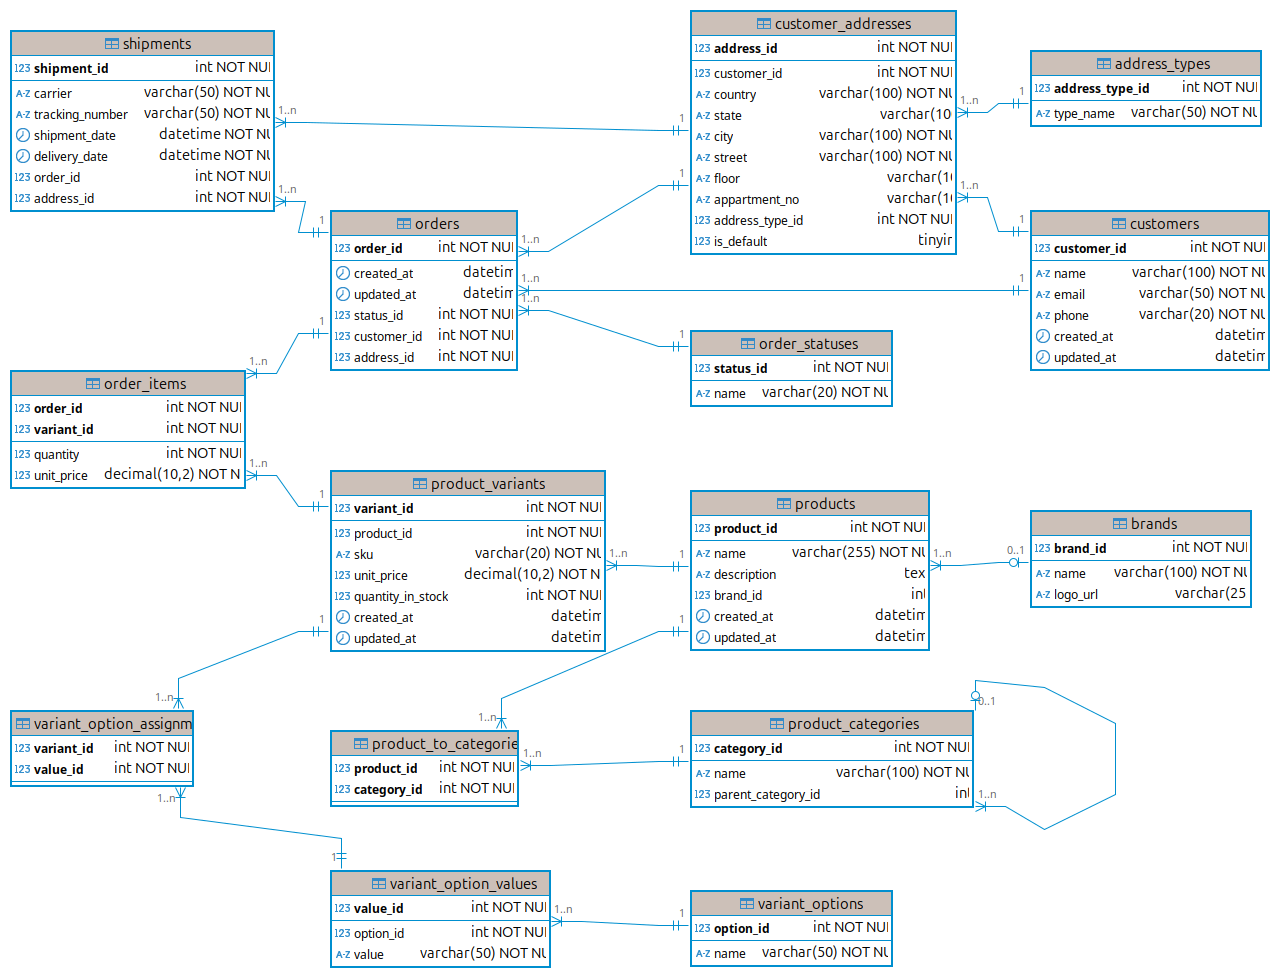
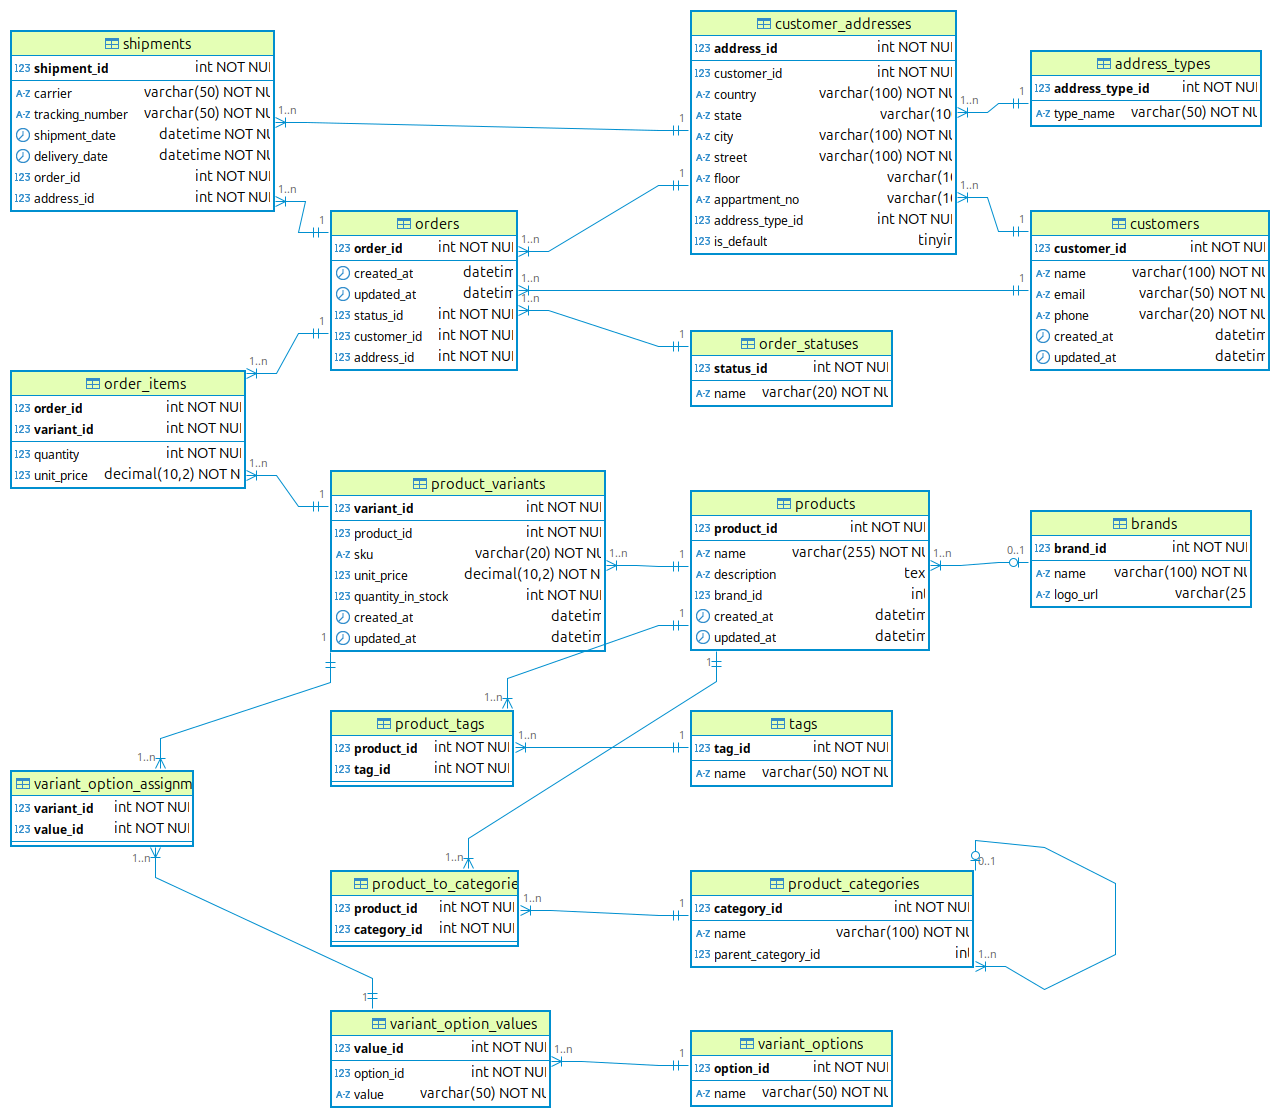
Add tags

diff --git a/documents/RnD_Notes.md b/documents/RnD_Notes.md
@@ -67,6 +67,16 @@ In this model a product is just a conceptual entity. It doesn't have `price` and
 - `name`
 - `logo_url`
 
+### `tags`
+
+- `tag_id`: `PK`
+- `name`: `UQ`
+
+### `product_tags`
+
+- `product_id`: `FK`, `PK`
+- `tag_id`: `FK`, `PK`
+
 ### `product_variants` table
 
 Each row is a unique combination of options for a product. For example T-shirt, Red, M. However, it is not easy to enforce uniqueness in a normalized structure. There are few options though. Let's come back to this later and assume for now that, the uniqueness will be enforced by the app layer. We can then add another column that will hold a normalized string, composed of the ids of each variant table below. For example "1-1-2" and enforce unique constrain on this column.

diff --git a/diagrams/README.md b/diagrams/README.md
@@ -1,0 +1,8 @@
+# Diagrams
+
+## Conceptual model
+
+![my-store-db.drawio](my-store-db.drawio.png)
+
+## Physical model
+![my_store_dbeaver](my_store_dbeaver.png)
